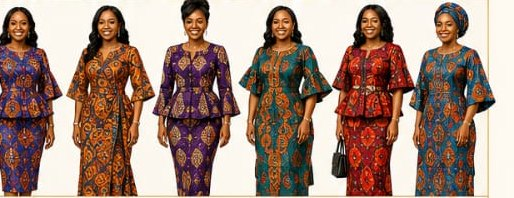
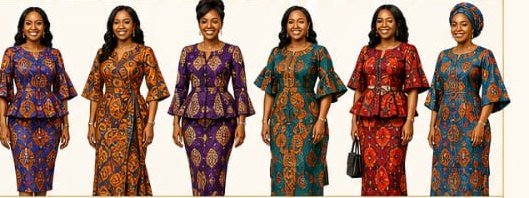
fix(packing-guide): un-clip outfit crops; add Friday (reuses Thursday)
Re-crop the Tuesday/Wednesday/Thursday outfit strips using each row's own
detected photo-start x so the leftmost woman is no longer clipped. Add a
Friday lookbook row reusing the Thursday image, since it's the same
"your choice — smart & modest" recommendation.

diff --git a/public/packing-guide.html b/public/packing-guide.html
@@ -389,6 +389,10 @@
           <img src="/outfits/thursday.jpg" loading="lazy" alt="Exemples de tenues au choix, élégantes et sobres">
         </figure>
         <figure class="look-row">
+          <figcaption><span class="look-day">Vendredi</span><span class="look-name">Au choix — élégant &amp; sobre</span></figcaption>
+          <img src="/outfits/thursday.jpg" loading="lazy" alt="Exemples de tenues au choix, élégantes et sobres">
+        </figure>
+        <figure class="look-row">
           <figcaption><span class="look-day">Jeudi soir · Gala</span><span class="look-name">Tenue de soirée</span></figcaption>
           <img src="/outfits/gala.jpg" loading="lazy" alt="Exemples de tenues de gala : élégantes, sobres et à la gloire de Dieu">
         </figure>
@@ -523,6 +527,10 @@
         </figure>
         <figure class="look-row">
           <figcaption><span class="look-day">Thursday</span><span class="look-name">Your choice — smart &amp; modest</span></figcaption>
+          <img src="/outfits/thursday.jpg" loading="lazy" alt="Examples of free-choice outfits, smart and modest">
+        </figure>
+        <figure class="look-row">
+          <figcaption><span class="look-day">Friday</span><span class="look-name">Your choice — smart &amp; modest</span></figcaption>
           <img src="/outfits/thursday.jpg" loading="lazy" alt="Examples of free-choice outfits, smart and modest">
         </figure>
         <figure class="look-row">
